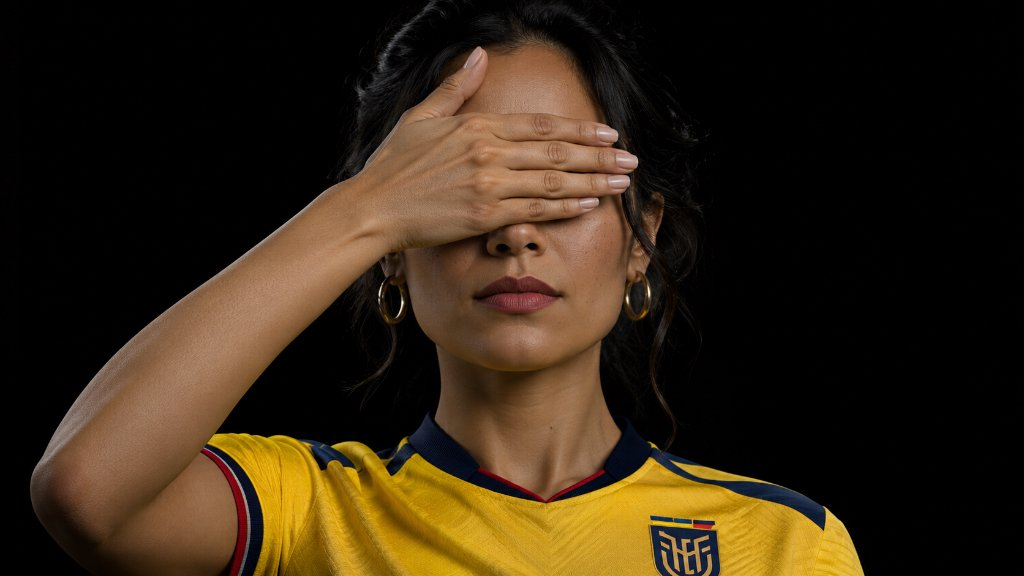
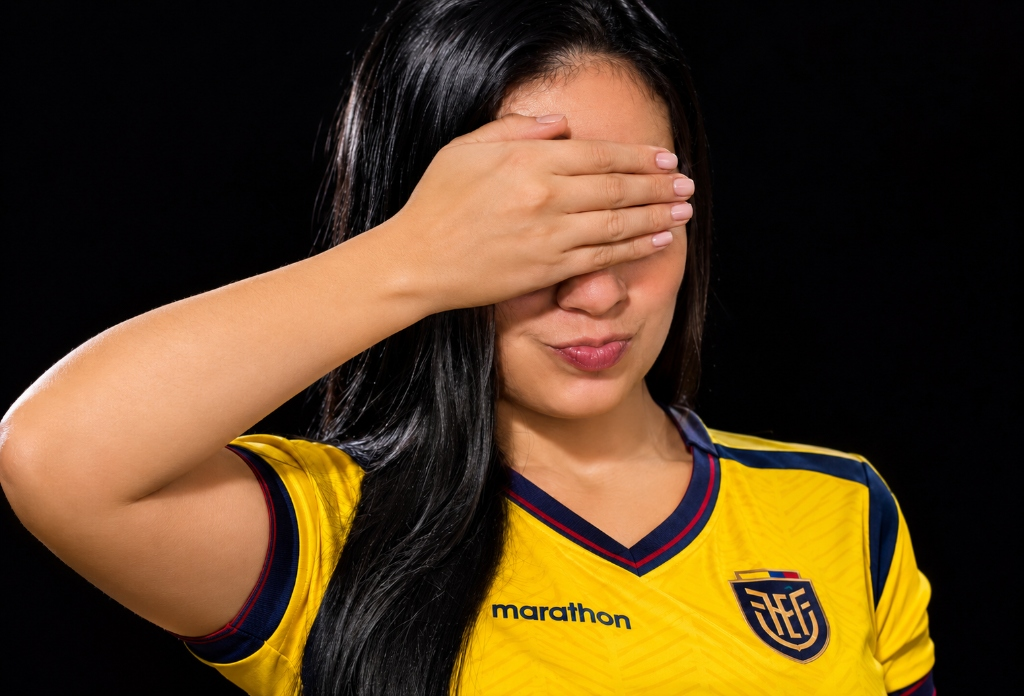
feat: full-bleed background hero with text overlay and zero borders

diff --git a/user/themes/quark2/css/custom.css b/user/themes/quark2/css/custom.css
@@ -1,5 +1,5 @@
 /* ==========================================================================
-   Privacidad.ec — Apple Privacy Design System
+   Privacidad.ec — Apple Privacy Design System (Full-Bleed Hero Background)
    ========================================================================== */
 
 /* Dark Mode as Default and Primary Theme */
@@ -12,6 +12,8 @@ body {
   font-family: -apple-system, BlinkMacSystemFont, "SF Pro Display", "SF Pro Text", "Helvetica Neue", "Inter", sans-serif;
   -webkit-font-smoothing: antialiased;
   -moz-osx-font-smoothing: grayscale;
+  margin: 0;
+  padding: 0;
 }
 
 /* Header / Navigation — Apple Frosted Glass */
@@ -19,24 +21,26 @@ body {
 .header-fixed #header,
 header.navbar,
 .nav-wrapper {
-  background: rgba(0, 0, 0, 0.8) !important;
+  background: rgba(0, 0, 0, 0.75) !important;
   backdrop-filter: saturate(180%) blur(20px) !important;
   -webkit-backdrop-filter: saturate(180%) blur(20px) !important;
   border-bottom: 1px solid rgba(255, 255, 255, 0.08) !important;
   transition: background-color 0.4s ease, border-color 0.4s ease;
+  z-index: 100 !important;
 }
 
 /* Header nav links */
 .navbar section.navbar-section a,
 .navbar a {
-  color: #86868b !important;
+  color: #a1a1a6 !important;
+  font-weight: 500 !important;
   transition: color 0.2s ease;
 }
 
 .navbar section.navbar-section a:hover,
 .navbar a:hover,
 .navbar section.navbar-section a.active {
-  color: #f5f5f7 !important;
+  color: #ffffff !important;
 }
 
 /* Logo toggling */
@@ -46,91 +50,92 @@ header.navbar,
 :root[data-theme='light'] .logo-mode-dark { display: none !important; }
 :root[data-theme='light'] .logo-mode-light { display: block !important; }
 
-/* Apple Privacy Hero Section */
+/* ==========================================================================
+   Full-Bleed Apple Privacy Hero Section
+   ========================================================================== */
 .apple-privacy-hero {
-  background-color: #000000;
-  padding-top: clamp(4rem, 8vw, 6.5rem);
-  padding-bottom: clamp(3rem, 6vw, 5rem);
-  text-align: center;
   position: relative;
+  width: 100vw;
+  left: 50%;
+  right: 50%;
+  margin-left: -50vw;
+  margin-right: -50vw;
+  min-height: clamp(650px, 88vh, 920px);
+  display: flex;
+  align-items: center;
+  justify-content: center;
+  background-color: #000000;
+  background-size: cover;
+  background-position: center top;
+  background-repeat: no-repeat;
+  border: none !important;
+  border-radius: 0 !important;
+  outline: none !important;
+  box-shadow: none !important;
   overflow: hidden;
+  padding: clamp(7rem, 14vw, 11rem) 1.5rem clamp(5rem, 10vw, 8rem);
+  text-align: center;
+}
+
+/* Dark gradient overlay behind text to maximize contrast and ensure seamless fade into #000 */
+.apple-hero-overlay {
+  position: absolute;
+  inset: 0;
+  background: 
+    radial-gradient(ellipse at 50% 40%, rgba(0, 0, 0, 0.4) 0%, rgba(0, 0, 0, 0.72) 75%, #000000 100%),
+    linear-gradient(to bottom, rgba(0, 0, 0, 0.65) 0%, rgba(0, 0, 0, 0.25) 45%, rgba(0, 0, 0, 0.85) 85%, #000000 100%);
+  pointer-events: none;
+  z-index: 1;
 }
 
 .apple-hero-container {
-  max-width: 1080px;
+  position: relative;
+  z-index: 2;
+  max-width: 960px;
   margin: 0 auto;
   padding: 0 1.5rem;
 }
 
 .apple-hero-eyebrow {
   display: inline-block;
-  font-size: clamp(0.95rem, 1.4vw, 1.15rem);
-  font-weight: 600;
-  letter-spacing: 0.08em;
+  font-size: clamp(0.95rem, 1.4vw, 1.2rem);
+  font-weight: 700;
+  letter-spacing: 0.12em;
   text-transform: uppercase;
-  color: #86868b;
-  margin-bottom: 1rem;
+  color: #a1a1a6;
+  text-shadow: 0 2px 10px rgba(0, 0, 0, 0.9);
+  margin-bottom: 1.25rem;
 }
 
 .apple-hero-title {
-  font-size: clamp(2.6rem, 6vw, 4.6rem);
-  font-weight: 700;
-  letter-spacing: -0.03em;
-  line-height: 1.06;
-  color: #f5f5f7;
+  font-size: clamp(2.8rem, 6.5vw, 5rem);
+  font-weight: 800;
+  letter-spacing: -0.035em;
+  line-height: 1.05;
+  color: #ffffff;
+  text-shadow: 0 4px 30px rgba(0, 0, 0, 0.95), 0 2px 10px rgba(0, 0, 0, 0.8);
   max-width: 900px;
   margin: 0 auto 1.5rem;
 }
 
 .apple-hero-subtitle {
-  font-size: clamp(1.15rem, 2.2vw, 1.45rem);
+  font-size: clamp(1.2rem, 2.3vw, 1.55rem);
   font-weight: 400;
-  line-height: 1.45;
-  color: #a1a1a6;
-  max-width: 760px;
-  margin: 0 auto 3rem;
-}
-
-.apple-hero-media {
-  display: flex;
-  justify-content: center;
-  align-items: center;
-  position: relative;
-  max-width: 980px;
+  line-height: 1.5;
+  color: #e5e5ea;
+  text-shadow: 0 3px 20px rgba(0, 0, 0, 0.95), 0 1px 6px rgba(0, 0, 0, 0.8);
+  max-width: 780px;
   margin: 0 auto;
-  border-radius: 28px;
-  overflow: hidden;
-  box-shadow: 0 25px 90px rgba(0, 0, 0, 0.95);
-  border: 1px solid rgba(255, 255, 255, 0.08);
 }
 
-.apple-hero-portrait {
-  width: 100%;
-  height: auto;
-  display: block;
-  object-fit: cover;
-  transition: transform 0.6s cubic-bezier(0.16, 1, 0.3, 1);
-}
-
-.apple-hero-media:hover .apple-hero-portrait {
-  transform: scale(1.015);
-}
-
-/* Subtle gradient mask so the hero image seamlessly merges into pure black */
-.apple-hero-media::after {
-  content: "";
-  position: absolute;
-  inset: 0;
-  pointer-events: none;
-  background: radial-gradient(circle at center, transparent 65%, rgba(0, 0, 0, 0.4) 100%),
-              linear-gradient(to bottom, transparent 80%, rgba(0, 0, 0, 0.6) 100%);
-}
-
-/* Blog Content & Cards Section */
+/* ==========================================================================
+   Blog Content & Cards Section
+   ========================================================================== */
 #body-wrapper,
 .blog-listing {
   background-color: #000000 !important;
   padding-block: 4rem;
+  border: none !important;
 }
 
 .blog-grid {
